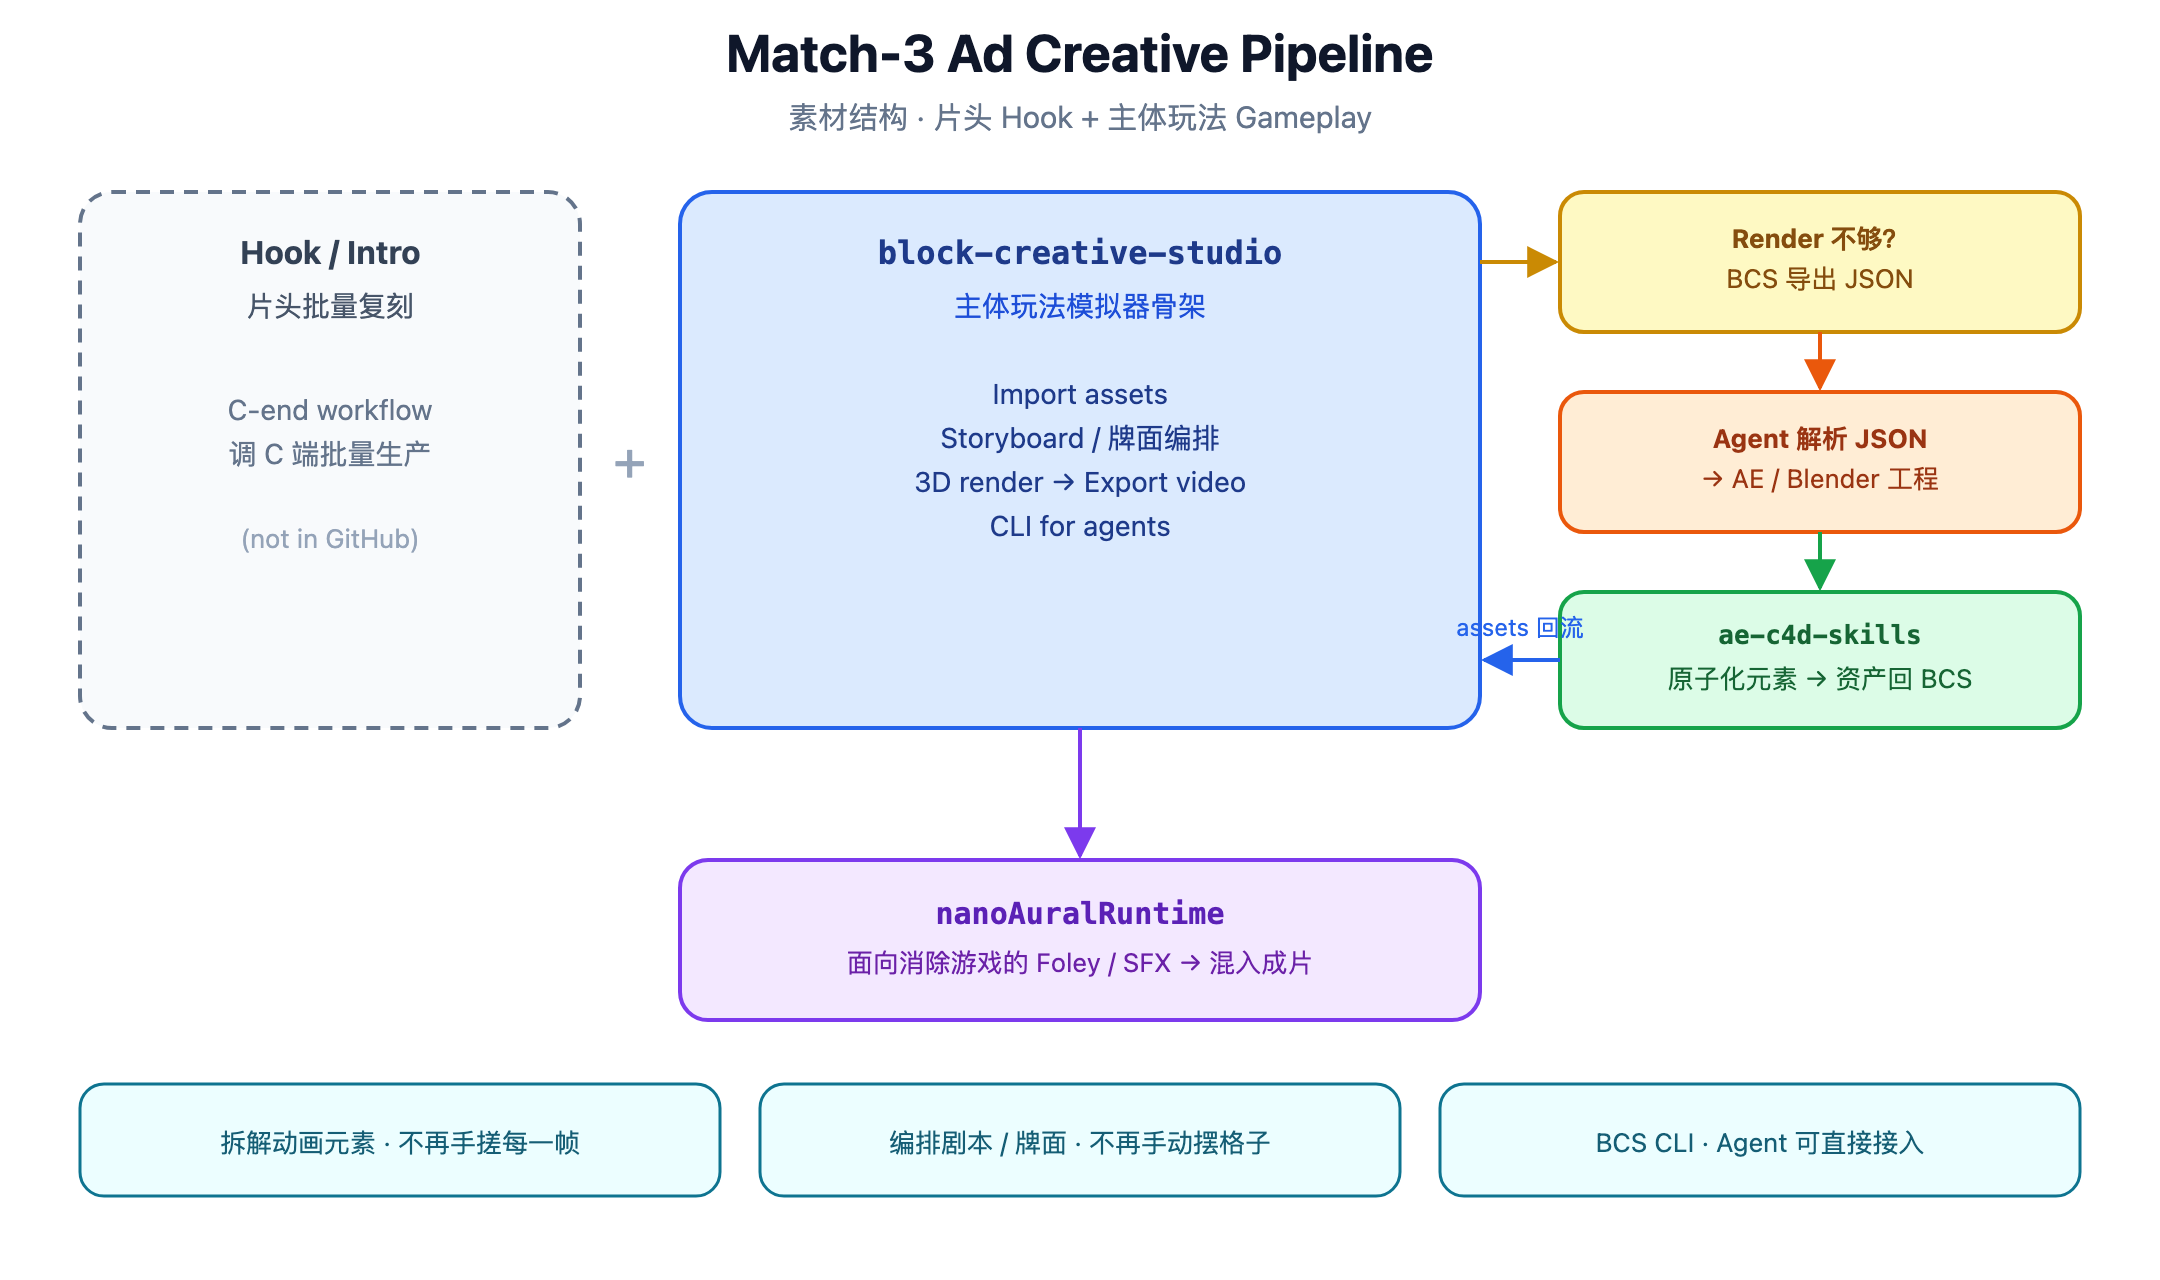
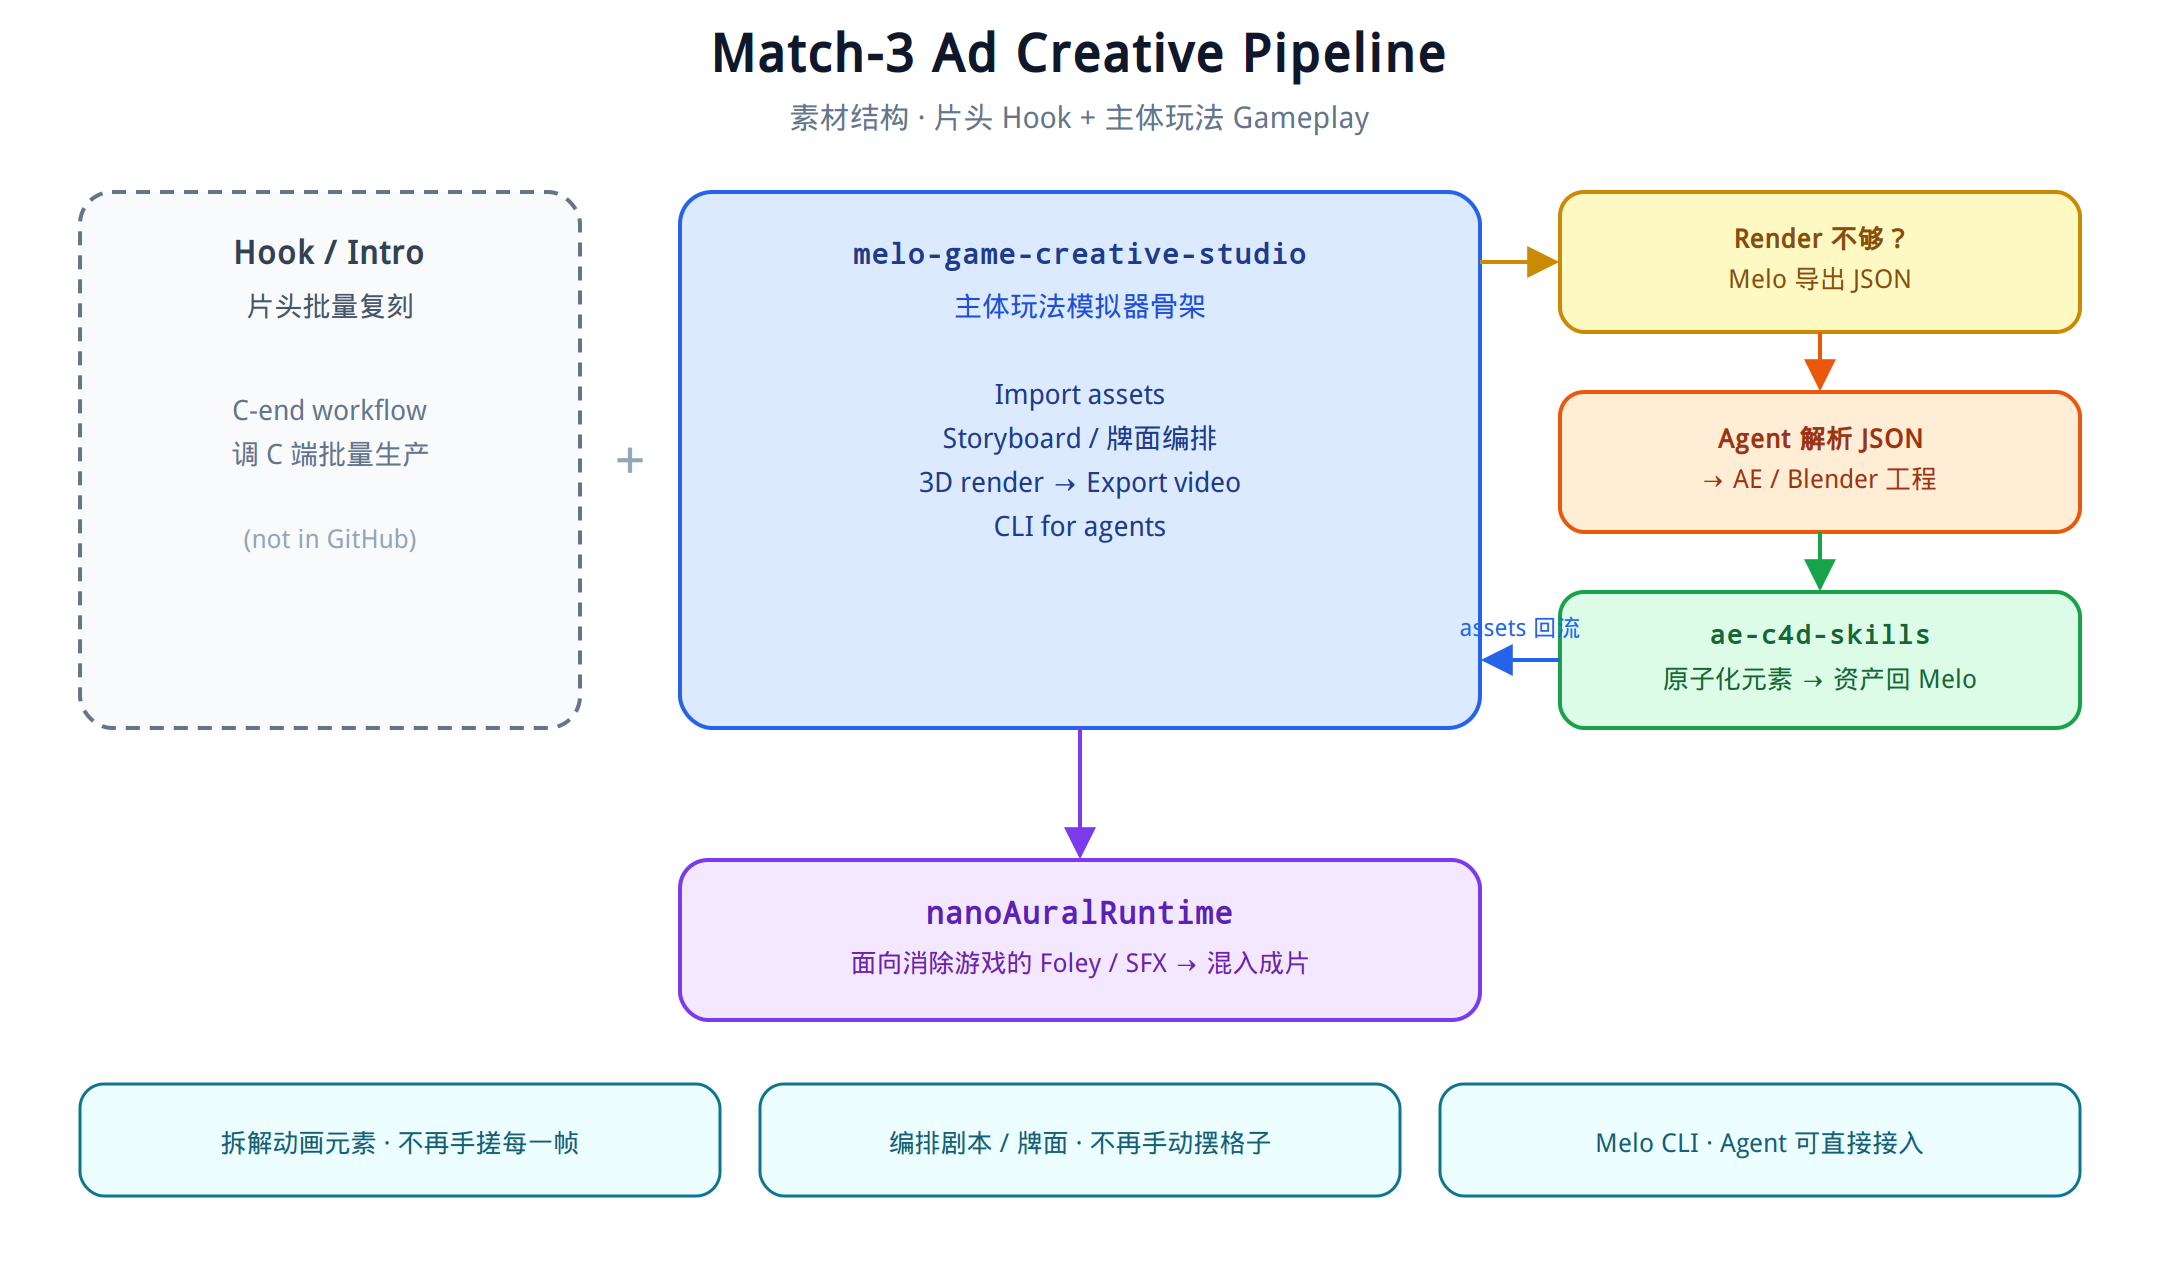
Rename block-creative-studio (BCS) to melo-game-creative-studio (Melo)
Update the GitHub profile README links, badges, and creative-pipeline
diagram assets to match the new product name and live URL.

diff --git a/scripts/gen_creative_pipeline.py b/scripts/gen_creative_pipeline.py
@@ -167,25 +167,25 @@ def main():
     plus = text(300, 220, 36, 36, "+", size=28, color="#94a3b8", align="center")
     elements.append(plus)
 
-    bcs = rect(
+    melo = rect(
         340,
         120,
         390,
         250,
         "#dbeafe",
         "#2563eb",
-        link="https://dongyuan21.github.io/block-creative-studio/",
+        link="https://dongyuan21.github.io/melo-game-creative-studio/",
     )
-    bcs_t = labeled(
-        bcs,
-        "block-creative-studio\n主体玩法模拟器骨架\n\nImport assets\nStoryboard / 牌面编排\n3D render  →  Export video\nCLI for agents",
-        size=16,
+    melo_t = labeled(
+        melo,
+        "melo-game-creative-studio\n主体玩法模拟器骨架\n\nImport assets\nStoryboard / 牌面编排\n3D render  →  Export video\nCLI for agents",
+        size=15,
         color="#1e3a8a",
     )
-    elements += [bcs, bcs_t]
+    elements += [melo, melo_t]
 
     json_box = rect(780, 120, 260, 70, "#fef9c3", "#ca8a04")
-    json_t = labeled(json_box, "Render 不够？\nBCS 导出 JSON", size=15, color="#854d0e")
+    json_t = labeled(json_box, "Render 不够？\nMelo 导出 JSON", size=15, color="#854d0e")
     elements += [json_box, json_t]
 
     agent = rect(780, 210, 260, 70, "#ffedd5", "#ea580c")
@@ -201,13 +201,13 @@ def main():
         "#16a34a",
         link="https://github.com/dongyuan21/ae-c4d-skills",
     )
-    skills_t = labeled(skills, "ae-c4d-skills\n原子化元素 → 资产回 BCS", size=15, color="#166534")
+    skills_t = labeled(skills, "ae-c4d-skills\n原子化元素 → 资产回 Melo", size=15, color="#166534")
     elements += [skills, skills_t]
 
-    a1 = arrow(730, 155, 780, 155, start=bcs, end=json_box, color="#ca8a04")
+    a1 = arrow(730, 155, 780, 155, start=melo, end=json_box, color="#ca8a04")
     a2 = arrow(910, 190, 910, 210, start=json_box, end=agent, color="#ea580c")
     a3 = arrow(910, 280, 910, 300, start=agent, end=skills, color="#16a34a")
-    back = arrow(780, 335, 730, 335, start=skills, end=bcs, color="#2563eb")
+    back = arrow(780, 335, 730, 335, start=skills, end=melo, color="#2563eb")
     back_label = text(560, 310, 160, 20, "assets 回流", size=13, color="#2563eb", align="center")
     elements += [a1, a2, a3, back, back_label]
 
@@ -226,7 +226,7 @@ def main():
         size=16,
         color="#5b21b6",
     )
-    mix = arrow(535, 370, 535, 410, start=bcs, end=audio, color="#7c3aed")
+    mix = arrow(535, 370, 535, 410, start=melo, end=audio, color="#7c3aed")
     elements += [audio, audio_t, mix]
 
     p1 = rect(40, 530, 320, 56, "#ecfeff", "#0e7490")
@@ -234,7 +234,7 @@ def main():
     p2 = rect(380, 530, 320, 56, "#ecfeff", "#0e7490")
     p2t = labeled(p2, "编排剧本 / 牌面  ·  不再手动摆格子", size=14, color="#155e75")
     p3 = rect(720, 530, 320, 56, "#ecfeff", "#0e7490")
-    p3t = labeled(p3, "BCS CLI  ·  Agent 可直接接入", size=14, color="#155e75")
+    p3t = labeled(p3, "Melo CLI  ·  Agent 可直接接入", size=14, color="#155e75")
     elements += [p1, p1t, p2, p2t, p3, p3t]
 
     doc = {
@@ -256,7 +256,7 @@ def main():
     svg = """<?xml version="1.0" encoding="UTF-8"?>
 <svg xmlns="http://www.w3.org/2000/svg" viewBox="0 0 1080 640" width="1080" height="640" role="img" aria-labelledby="title desc">
   <title id="title">Match-3 Ad Creative Pipeline</title>
-  <desc id="desc">片头 Hook 加主体玩法 Gameplay 的素材生产链路：BCS 编排渲染，JSON 转 AE/Blender，ae-c4d-skills 沉淀资产，nanoAuralRuntime 生成音效。</desc>
+  <desc id="desc">片头 Hook 加主体玩法 Gameplay 的素材生产链路：Melo 编排渲染，JSON 转 AE/Blender，ae-c4d-skills 沉淀资产，nanoAuralRuntime 生成音效。</desc>
   <defs>
     <marker id="arrow-blue" viewBox="0 0 10 10" refX="9" refY="5" markerWidth="8" markerHeight="8" orient="auto-start-reverse">
       <path d="M 0 0 L 10 5 L 0 10 z" fill="#2563eb"/>
@@ -289,9 +289,9 @@ def main():
 
   <text x="315" y="240" text-anchor="middle" font-family="ui-sans-serif, system-ui, sans-serif" font-size="28" fill="#94a3b8">+</text>
 
-  <a href="https://dongyuan21.github.io/block-creative-studio/" target="_blank">
+  <a href="https://dongyuan21.github.io/melo-game-creative-studio/" target="_blank">
     <rect x="340" y="96" width="400" height="268" rx="16" fill="#dbeafe" stroke="#2563eb" stroke-width="2"/>
-    <text x="540" y="132" text-anchor="middle" font-family="ui-monospace, SFMono-Regular, Menlo, monospace" font-size="16" font-weight="700" fill="#1e3a8a">block-creative-studio</text>
+    <text x="540" y="132" text-anchor="middle" font-family="ui-monospace, SFMono-Regular, Menlo, monospace" font-size="14" font-weight="700" fill="#1e3a8a">melo-game-creative-studio</text>
     <text x="540" y="158" text-anchor="middle" font-family="ui-sans-serif, system-ui, sans-serif" font-size="14" fill="#1d4ed8">主体玩法模拟器骨架</text>
     <text x="540" y="202" text-anchor="middle" font-family="ui-sans-serif, system-ui, sans-serif" font-size="14" fill="#1e3a8a">Import assets</text>
     <text x="540" y="224" text-anchor="middle" font-family="ui-sans-serif, system-ui, sans-serif" font-size="14" fill="#1e3a8a">Storyboard / 牌面编排</text>
@@ -301,7 +301,7 @@ def main():
 
   <rect x="780" y="96" width="260" height="70" rx="12" fill="#fef9c3" stroke="#ca8a04" stroke-width="2"/>
   <text x="910" y="124" text-anchor="middle" font-family="ui-sans-serif, system-ui, sans-serif" font-size="13" font-weight="700" fill="#854d0e">Render 不够？</text>
-  <text x="910" y="144" text-anchor="middle" font-family="ui-sans-serif, system-ui, sans-serif" font-size="13" fill="#854d0e">BCS 导出 JSON</text>
+  <text x="910" y="144" text-anchor="middle" font-family="ui-sans-serif, system-ui, sans-serif" font-size="13" fill="#854d0e">Melo 导出 JSON</text>
 
   <rect x="780" y="196" width="260" height="70" rx="12" fill="#ffedd5" stroke="#ea580c" stroke-width="2"/>
   <text x="910" y="224" text-anchor="middle" font-family="ui-sans-serif, system-ui, sans-serif" font-size="13" font-weight="700" fill="#9a3412">Agent 解析 JSON</text>
@@ -310,7 +310,7 @@ def main():
   <a href="https://github.com/dongyuan21/ae-c4d-skills" target="_blank">
     <rect x="780" y="296" width="260" height="68" rx="12" fill="#dcfce7" stroke="#16a34a" stroke-width="2"/>
     <text x="910" y="322" text-anchor="middle" font-family="ui-monospace, SFMono-Regular, Menlo, monospace" font-size="13" font-weight="700" fill="#166534">ae-c4d-skills</text>
-    <text x="910" y="344" text-anchor="middle" font-family="ui-sans-serif, system-ui, sans-serif" font-size="13" fill="#166534">原子化元素 → 资产回 BCS</text>
+    <text x="910" y="344" text-anchor="middle" font-family="ui-sans-serif, system-ui, sans-serif" font-size="13" fill="#166534">原子化元素 → 资产回 Melo</text>
   </a>
 
   <line x1="740" y1="131" x2="778" y2="131" stroke="#ca8a04" stroke-width="2" marker-end="url(#arrow-gold)"/>
@@ -333,12 +333,37 @@ def main():
   <text x="540" y="576" text-anchor="middle" font-family="ui-sans-serif, system-ui, sans-serif" font-size="13" fill="#155e75">编排剧本 / 牌面 · 不再手动摆格子</text>
 
   <rect x="720" y="542" width="320" height="56" rx="12" fill="#ecfeff" stroke="#0e7490" stroke-width="1.5"/>
-  <text x="880" y="576" text-anchor="middle" font-family="ui-sans-serif, system-ui, sans-serif" font-size="13" fill="#155e75">BCS CLI · Agent 可直接接入</text>
+  <text x="880" y="576" text-anchor="middle" font-family="ui-sans-serif, system-ui, sans-serif" font-size="13" fill="#155e75">Melo CLI · Agent 可直接接入</text>
 </svg>
 """
     svg_path = root / "creative-pipeline.svg"
     svg_path.write_text(svg, encoding="utf-8")
     print(f"wrote {svg_path}")
+
+    try:
+        import cairosvg
+    except ImportError:
+        print("skip png: install cairosvg to regenerate creative-pipeline.png")
+        return
+
+    # Cairo/Pango cannot resolve GitHub's ui-* stacks; remap to local CJK fonts.
+    png_svg = (
+        svg.replace(
+            'font-family="ui-sans-serif, system-ui, sans-serif"',
+            'font-family="WenQuanYi Micro Hei, Droid Sans Fallback, sans-serif"',
+        ).replace(
+            'font-family="ui-monospace, SFMono-Regular, Menlo, monospace"',
+            'font-family="WenQuanYi Micro Hei Mono, WenQuanYi Micro Hei, monospace"',
+        )
+    )
+    png_path = root / "creative-pipeline.png"
+    cairosvg.svg2png(
+        bytestring=png_svg.encode("utf-8"),
+        write_to=str(png_path),
+        output_width=2160,
+        output_height=1280,
+    )
+    print(f"wrote {png_path}")
 
 
 if __name__ == "__main__":

diff --git a/README.md b/README.md
@@ -7,8 +7,8 @@
 <h3 align="center">User Growth Engineer | AI Agent Builder | Olympic Weightlifter</h3>
 
 <p align="center">
-  <a href="https://dongyuan21.github.io/block-creative-studio/" target="_blank">
-    <img src="https://img.shields.io/badge/block--creative--studio-live-orange?logo=githubpages&logoColor=white" alt="block-creative-studio">
+  <a href="https://dongyuan21.github.io/melo-game-creative-studio/" target="_blank">
+    <img src="https://img.shields.io/badge/melo--game--creative--studio-live-orange?logo=githubpages&logoColor=white" alt="melo-game-creative-studio">
   </a>
   <a href="https://github.com/dongyuan21/nanoAuralRuntime" target="_blank">
     <img src="https://img.shields.io/badge/nanoAuralRuntime-audio-blue?logo=audiomack&logoColor=white" alt="nanoAuralRuntime">
@@ -21,7 +21,7 @@
 ---
 
 ### 🔭 What I'm Working On
-- **Casual Puzzle Games**: Building [block-creative-studio](https://dongyuan21.github.io/block-creative-studio/) — a match-3 simulator for importing assets, storyboarding boards, 3D rendering, and exporting video  
+- **Casual Puzzle Games**: Building [melo-game-creative-studio](https://dongyuan21.github.io/melo-game-creative-studio/) — a match-3 simulator for importing assets, storyboarding boards, 3D rendering, and exporting video  
 - **User Growth**: Built overseas incentive platforms from 0 to 1 — task systems, viral loops, and SEO traffic — iterated with ROI / cost / financial-loss guardrails  
 - **Paid UA**: Running IAA user acquisition for casual games, iterating creatives against spend and ROI  
 - **AI Agents**: A runtime-controlled, read-only Data Agent for UA — routing questions, governed SQL, and evidence-backed reports  
@@ -30,16 +30,16 @@
 
 A UA creative is **hook + gameplay**.
 
-The **hook** is batch-remade through a C-end production workflow (not in this GitHub). The **gameplay body** is built on [block-creative-studio](https://dongyuan21.github.io/block-creative-studio/) — a simulator skeleton that imports assets, storyboards the board, renders in 3D, and exports video. BCS also ships as a CLI so agents can drive it.
+The **hook** is batch-remade through a C-end production workflow (not in this GitHub). The **gameplay body** is built on [melo-game-creative-studio](https://dongyuan21.github.io/melo-game-creative-studio/) — a simulator skeleton that imports assets, storyboards the board, renders in 3D, and exports video. Melo also ships as a CLI so agents can drive it.
 
-When the 3D render isn't enough, BCS dumps JSON. An agent turns that JSON into After Effects / Blender projects. [ae-c4d-skills](https://github.com/dongyuan21/ae-c4d-skills) then parses those source files, atomizes animation elements into reusable assets, and feeds them back into BCS.
+When the 3D render isn't enough, Melo dumps JSON. An agent turns that JSON into After Effects / Blender projects. [ae-c4d-skills](https://github.com/dongyuan21/ae-c4d-skills) then parses those source files, atomizes animation elements into reusable assets, and feeds them back into Melo.
 
 That loop exists to kill two kinds of toil: **hand-tweening every shot**, and **manually laying out every board**.
 
 SFX for elimination games is generated by [nanoAuralRuntime](https://github.com/dongyuan21/nanoAuralRuntime).
 
 <p align="center">
-  <img src="./creative-pipeline.png" alt="Match-3 ad creative pipeline: hook + gameplay, BCS, ae-c4d-skills, nanoAuralRuntime" />
+  <img src="./creative-pipeline.png" alt="Match-3 ad creative pipeline: hook + gameplay, Melo, ae-c4d-skills, nanoAuralRuntime" />
 </p>
 
 <p align="center">
